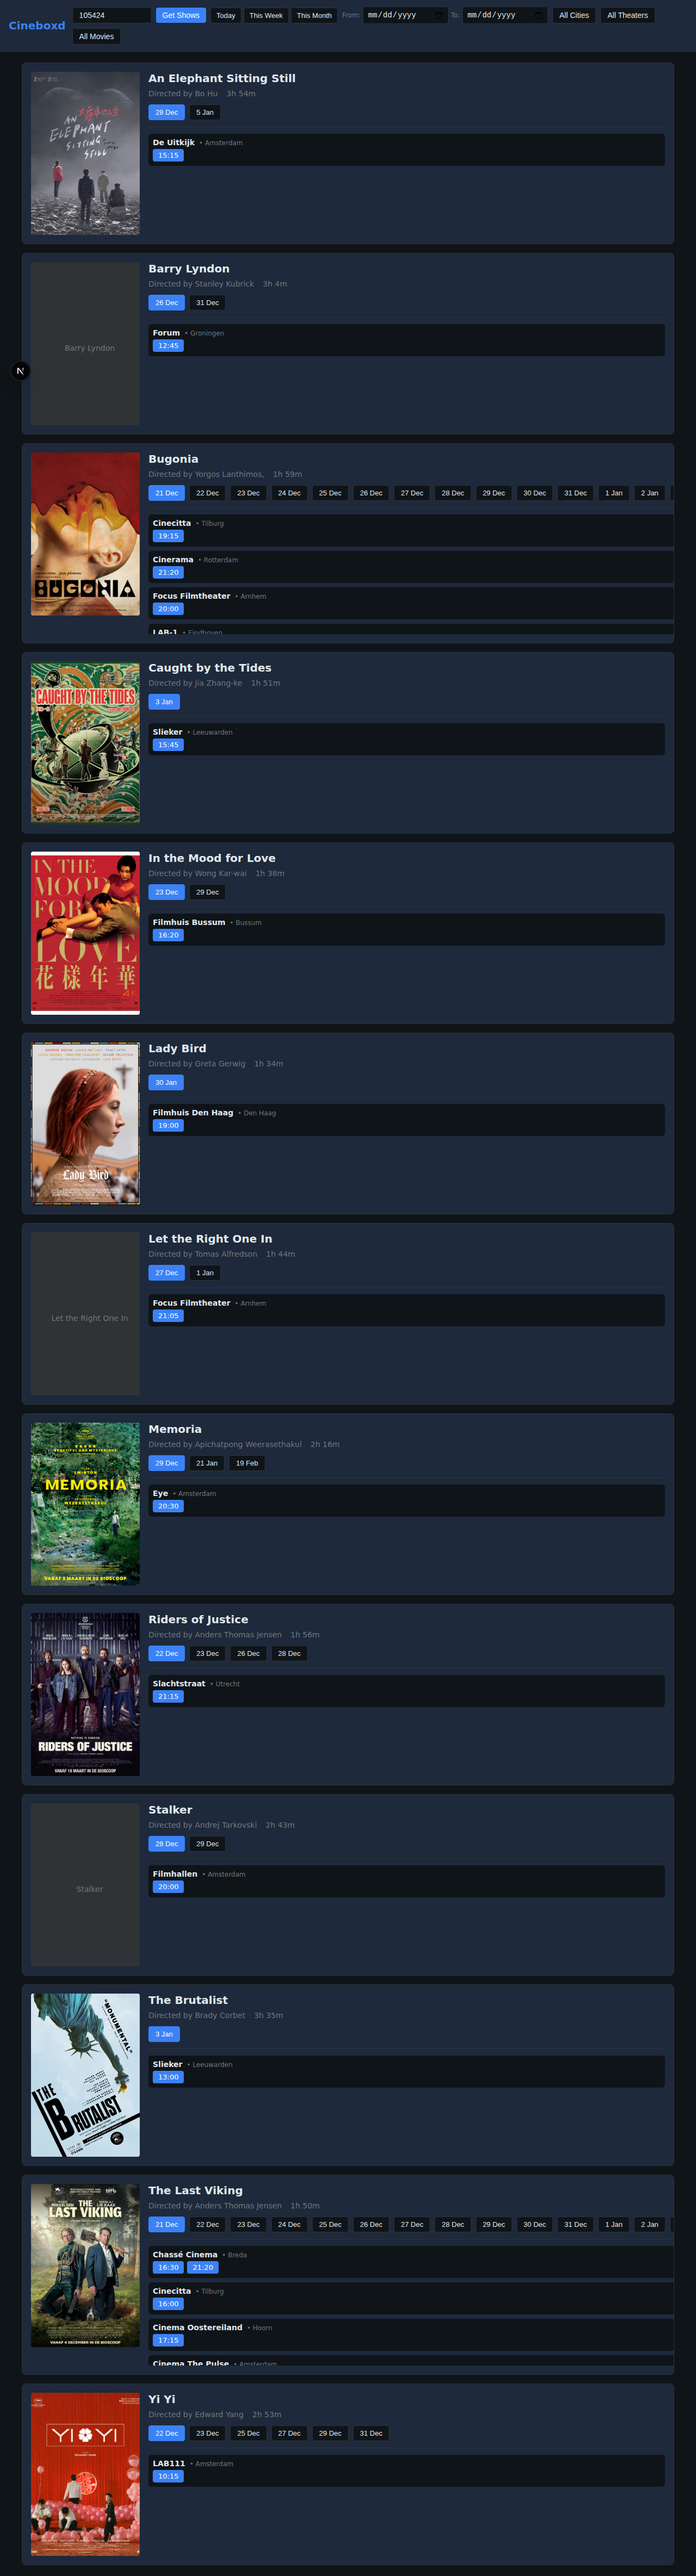
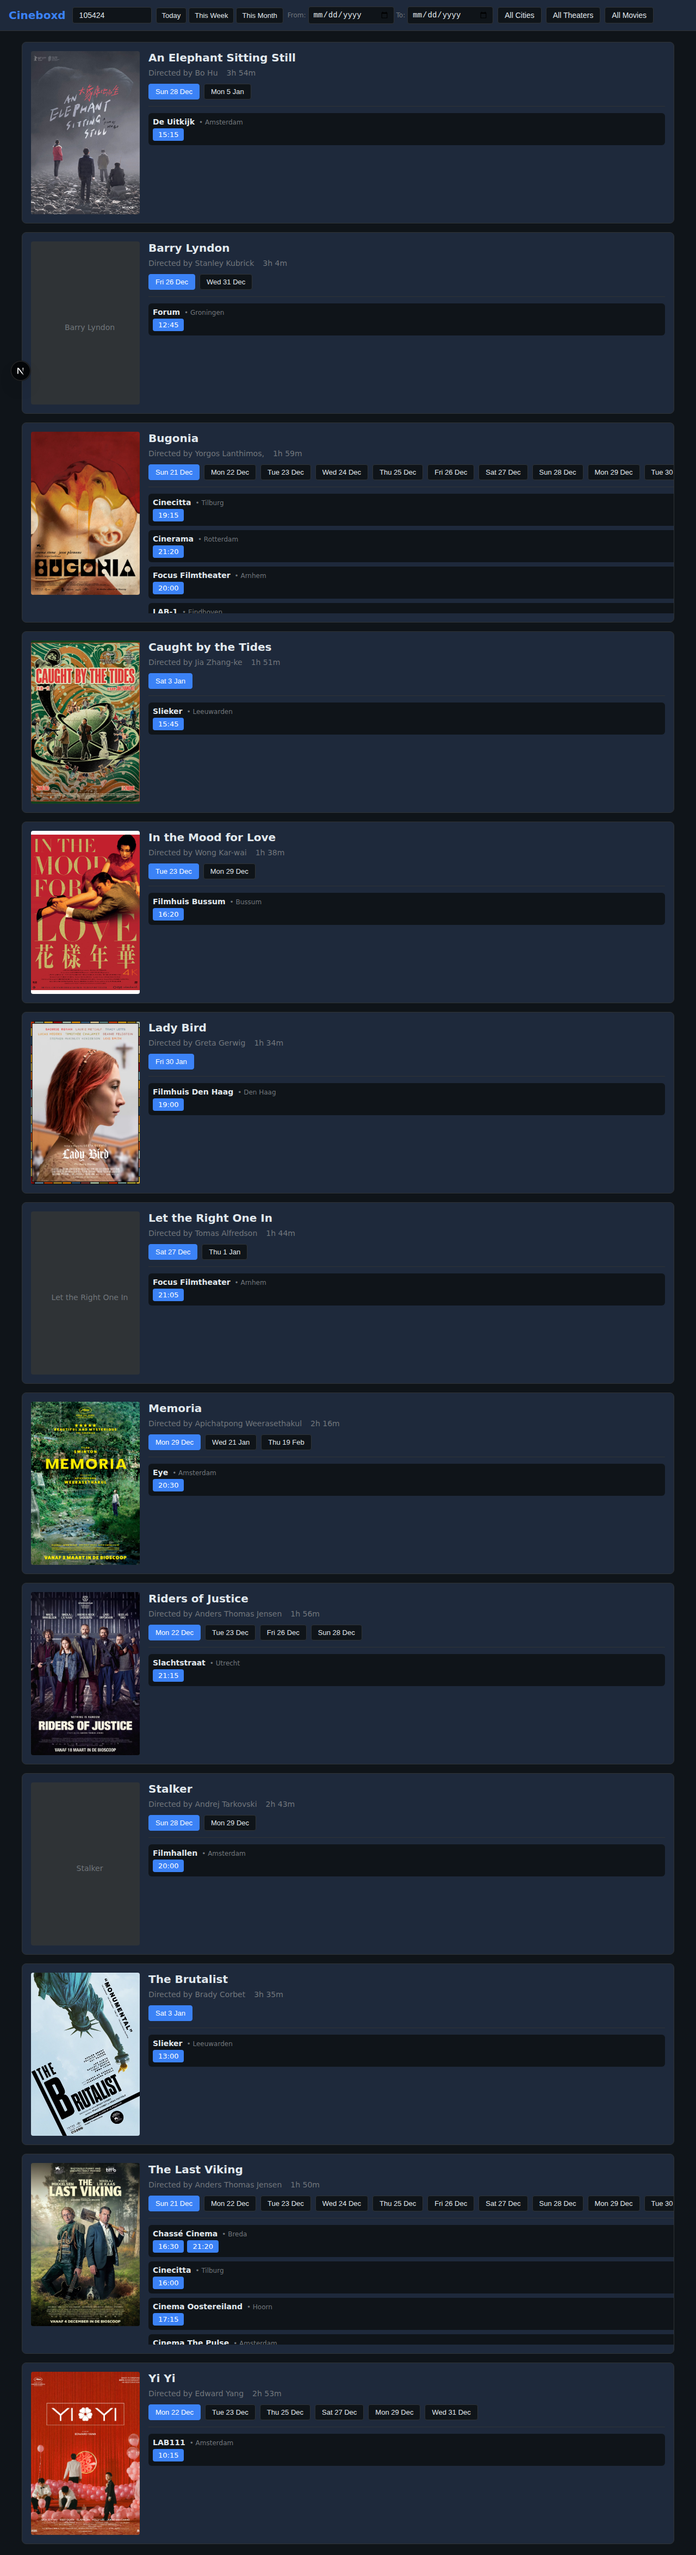
Remove Get Shows button and add weekday to date buttons
- Auto-fetch showtimes when username changes
- Date buttons now show "Sun 21 Dec" format with weekday

🤖 Generated with [Claude Code](https://claude.com/claude-code)

Changed region(s): [[0.0, 0.0, 1.0, 0.9943]]

diff --git a/src/app/page.tsx b/src/app/page.tsx
@@ -151,6 +151,7 @@ function MovieCard({ film, showsByDateAndTheater, formatTime, formatDuration }: 
             }}>
               {Array.from(showsByDate.keys()).map((date) => {
                 const dateStr = new Date(date + 'T00:00:00').toLocaleDateString('en-GB', {
+                  weekday: 'short',
                   day: 'numeric',
                   month: 'short'
                 });
@@ -376,7 +377,7 @@ export default function Home() {
 
   useEffect(() => {
     fetchShowtimes();
-  }, []);
+  }, [username]);
 
   const formatTime = (dateString: string) => {
     return new Date(dateString).toLocaleTimeString('en-GB', {
@@ -549,22 +550,6 @@ export default function Home() {
                 width: '120px'
               }}
             />
-            <button
-              onClick={fetchShowtimes}
-              disabled={isLoading}
-              style={{
-                padding: '6px 12px',
-                borderRadius: '4px',
-                backgroundColor: '#3b82f6',
-                color: 'white',
-                border: 'none',
-                fontSize: '14px',
-                cursor: isLoading ? 'not-allowed' : 'pointer',
-                opacity: isLoading ? 0.5 : 1
-              }}
-            >
-              {isLoading ? 'Loading...' : 'Get Shows'}
-            </button>
 
             {/* Date Shortcuts */}
             <div style={{ display: 'flex', gap: '4px' }}>
